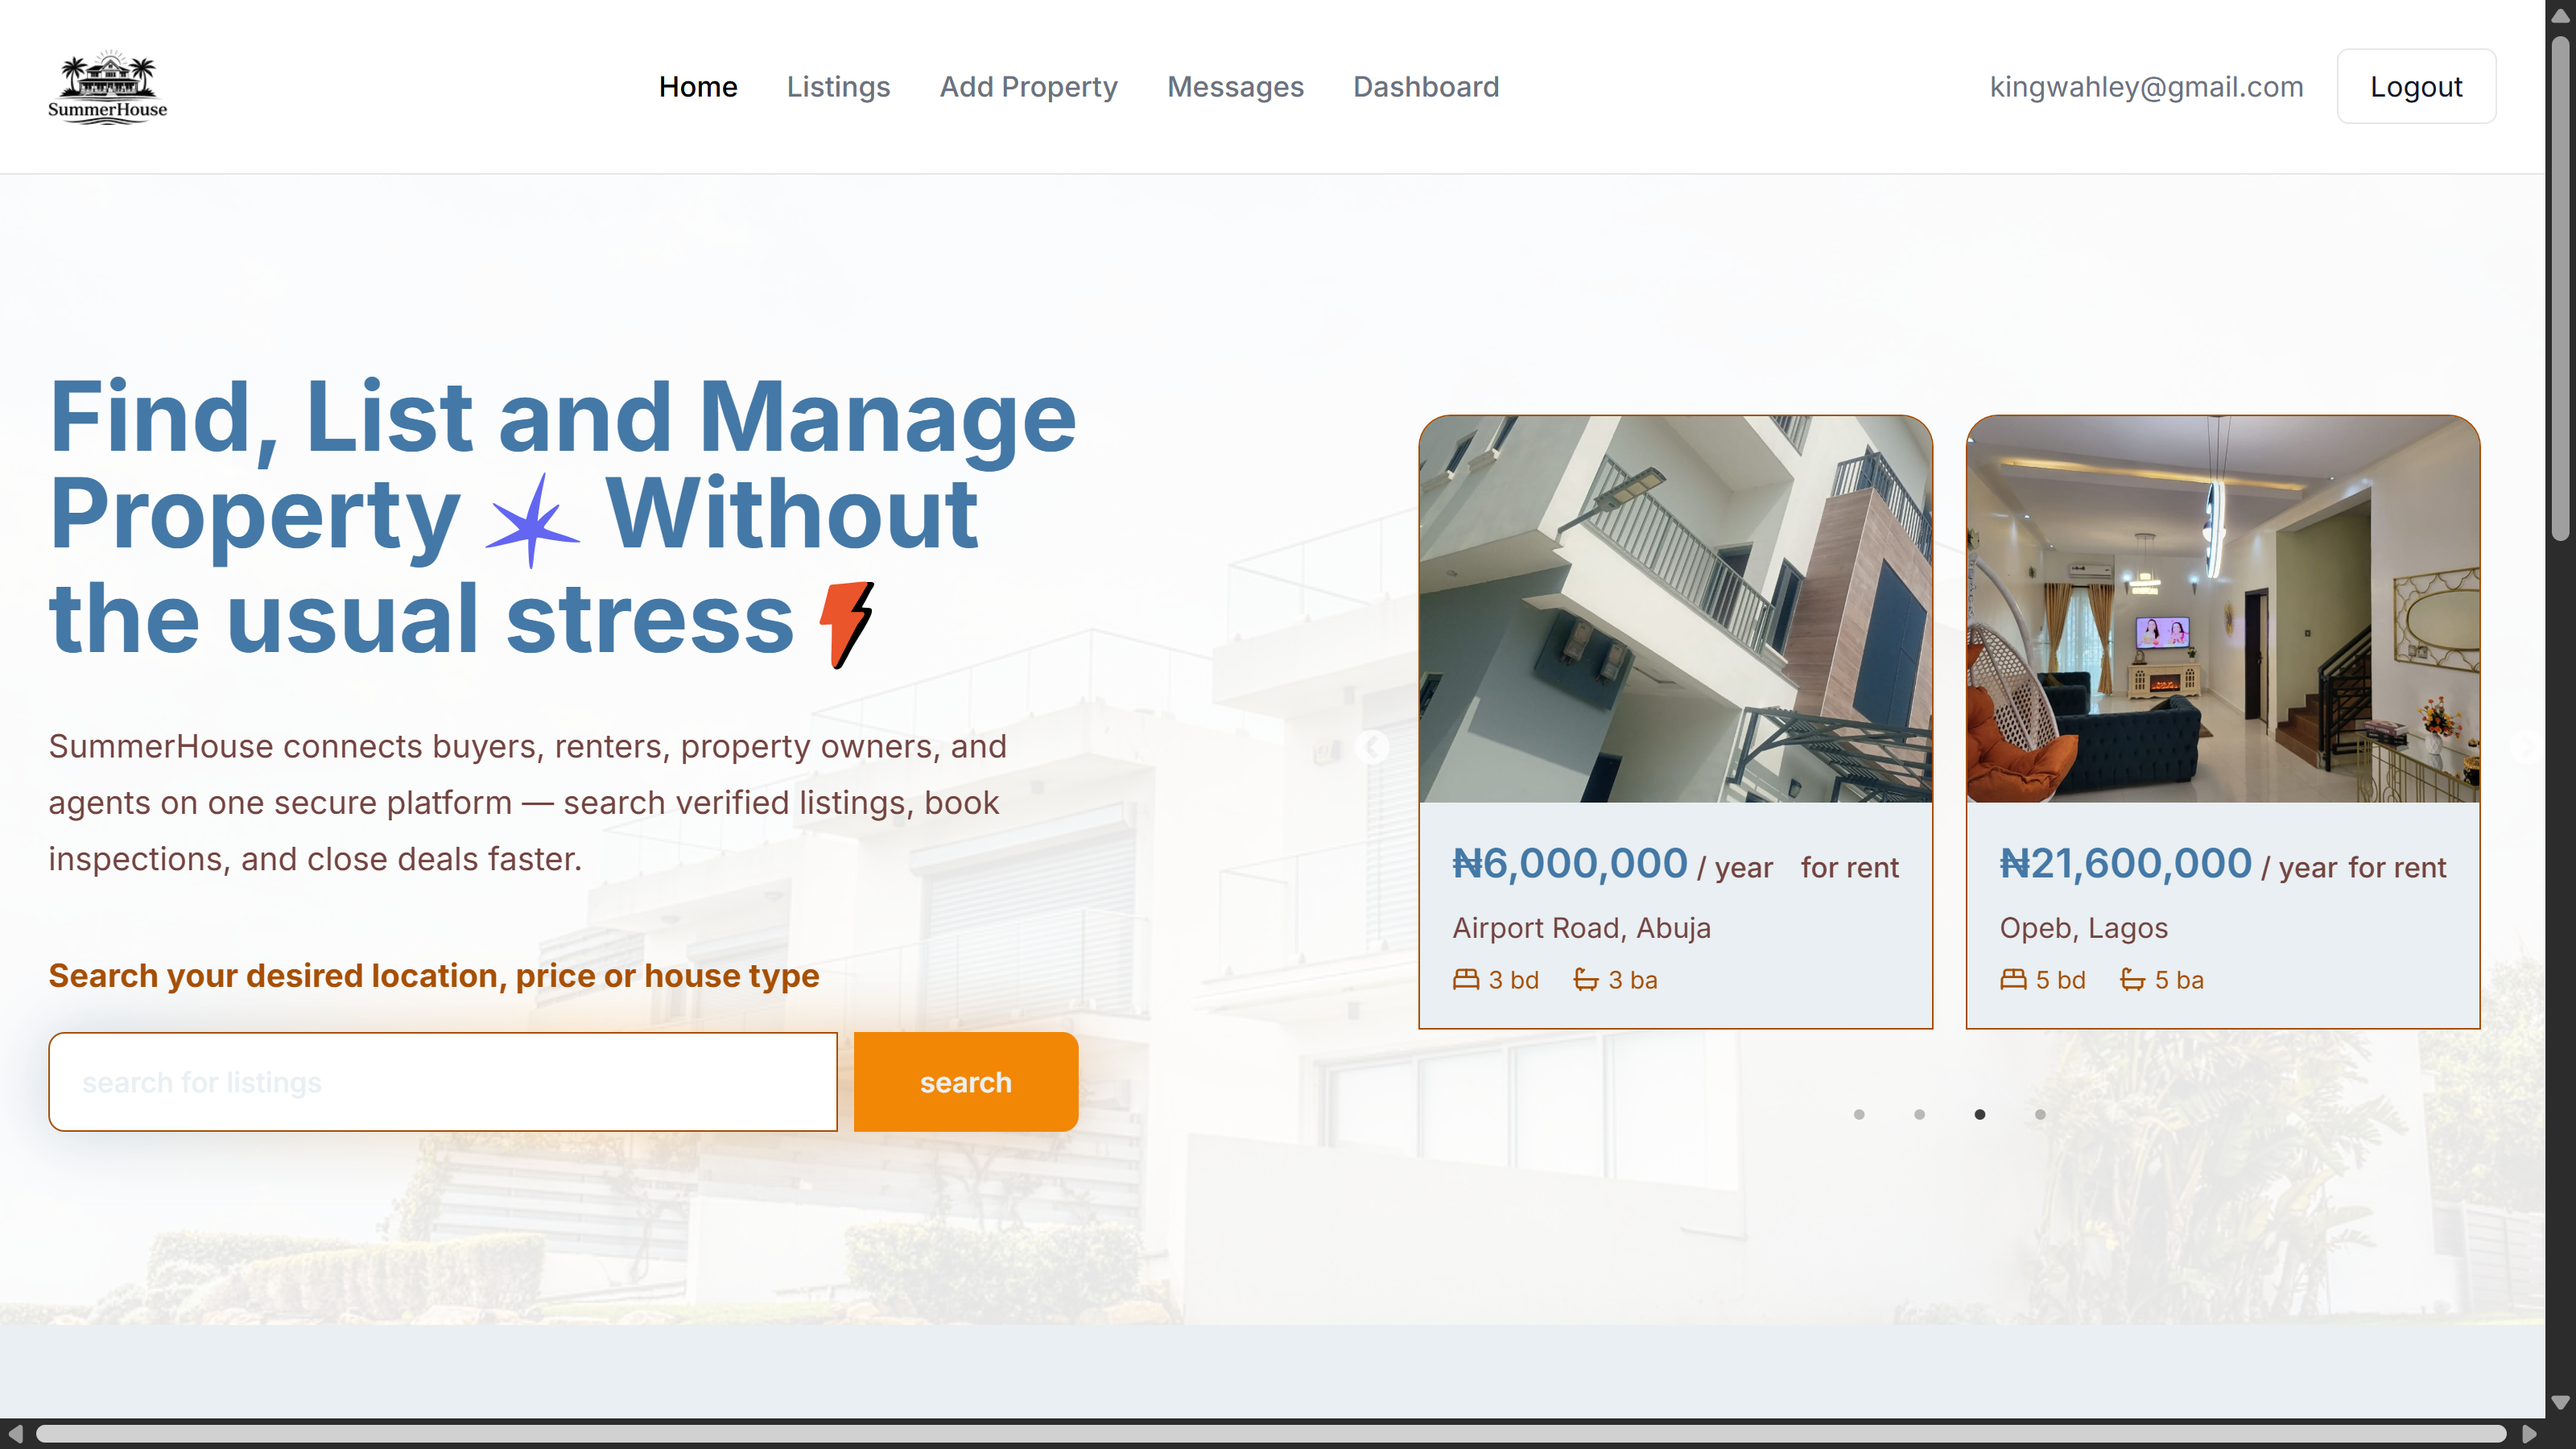
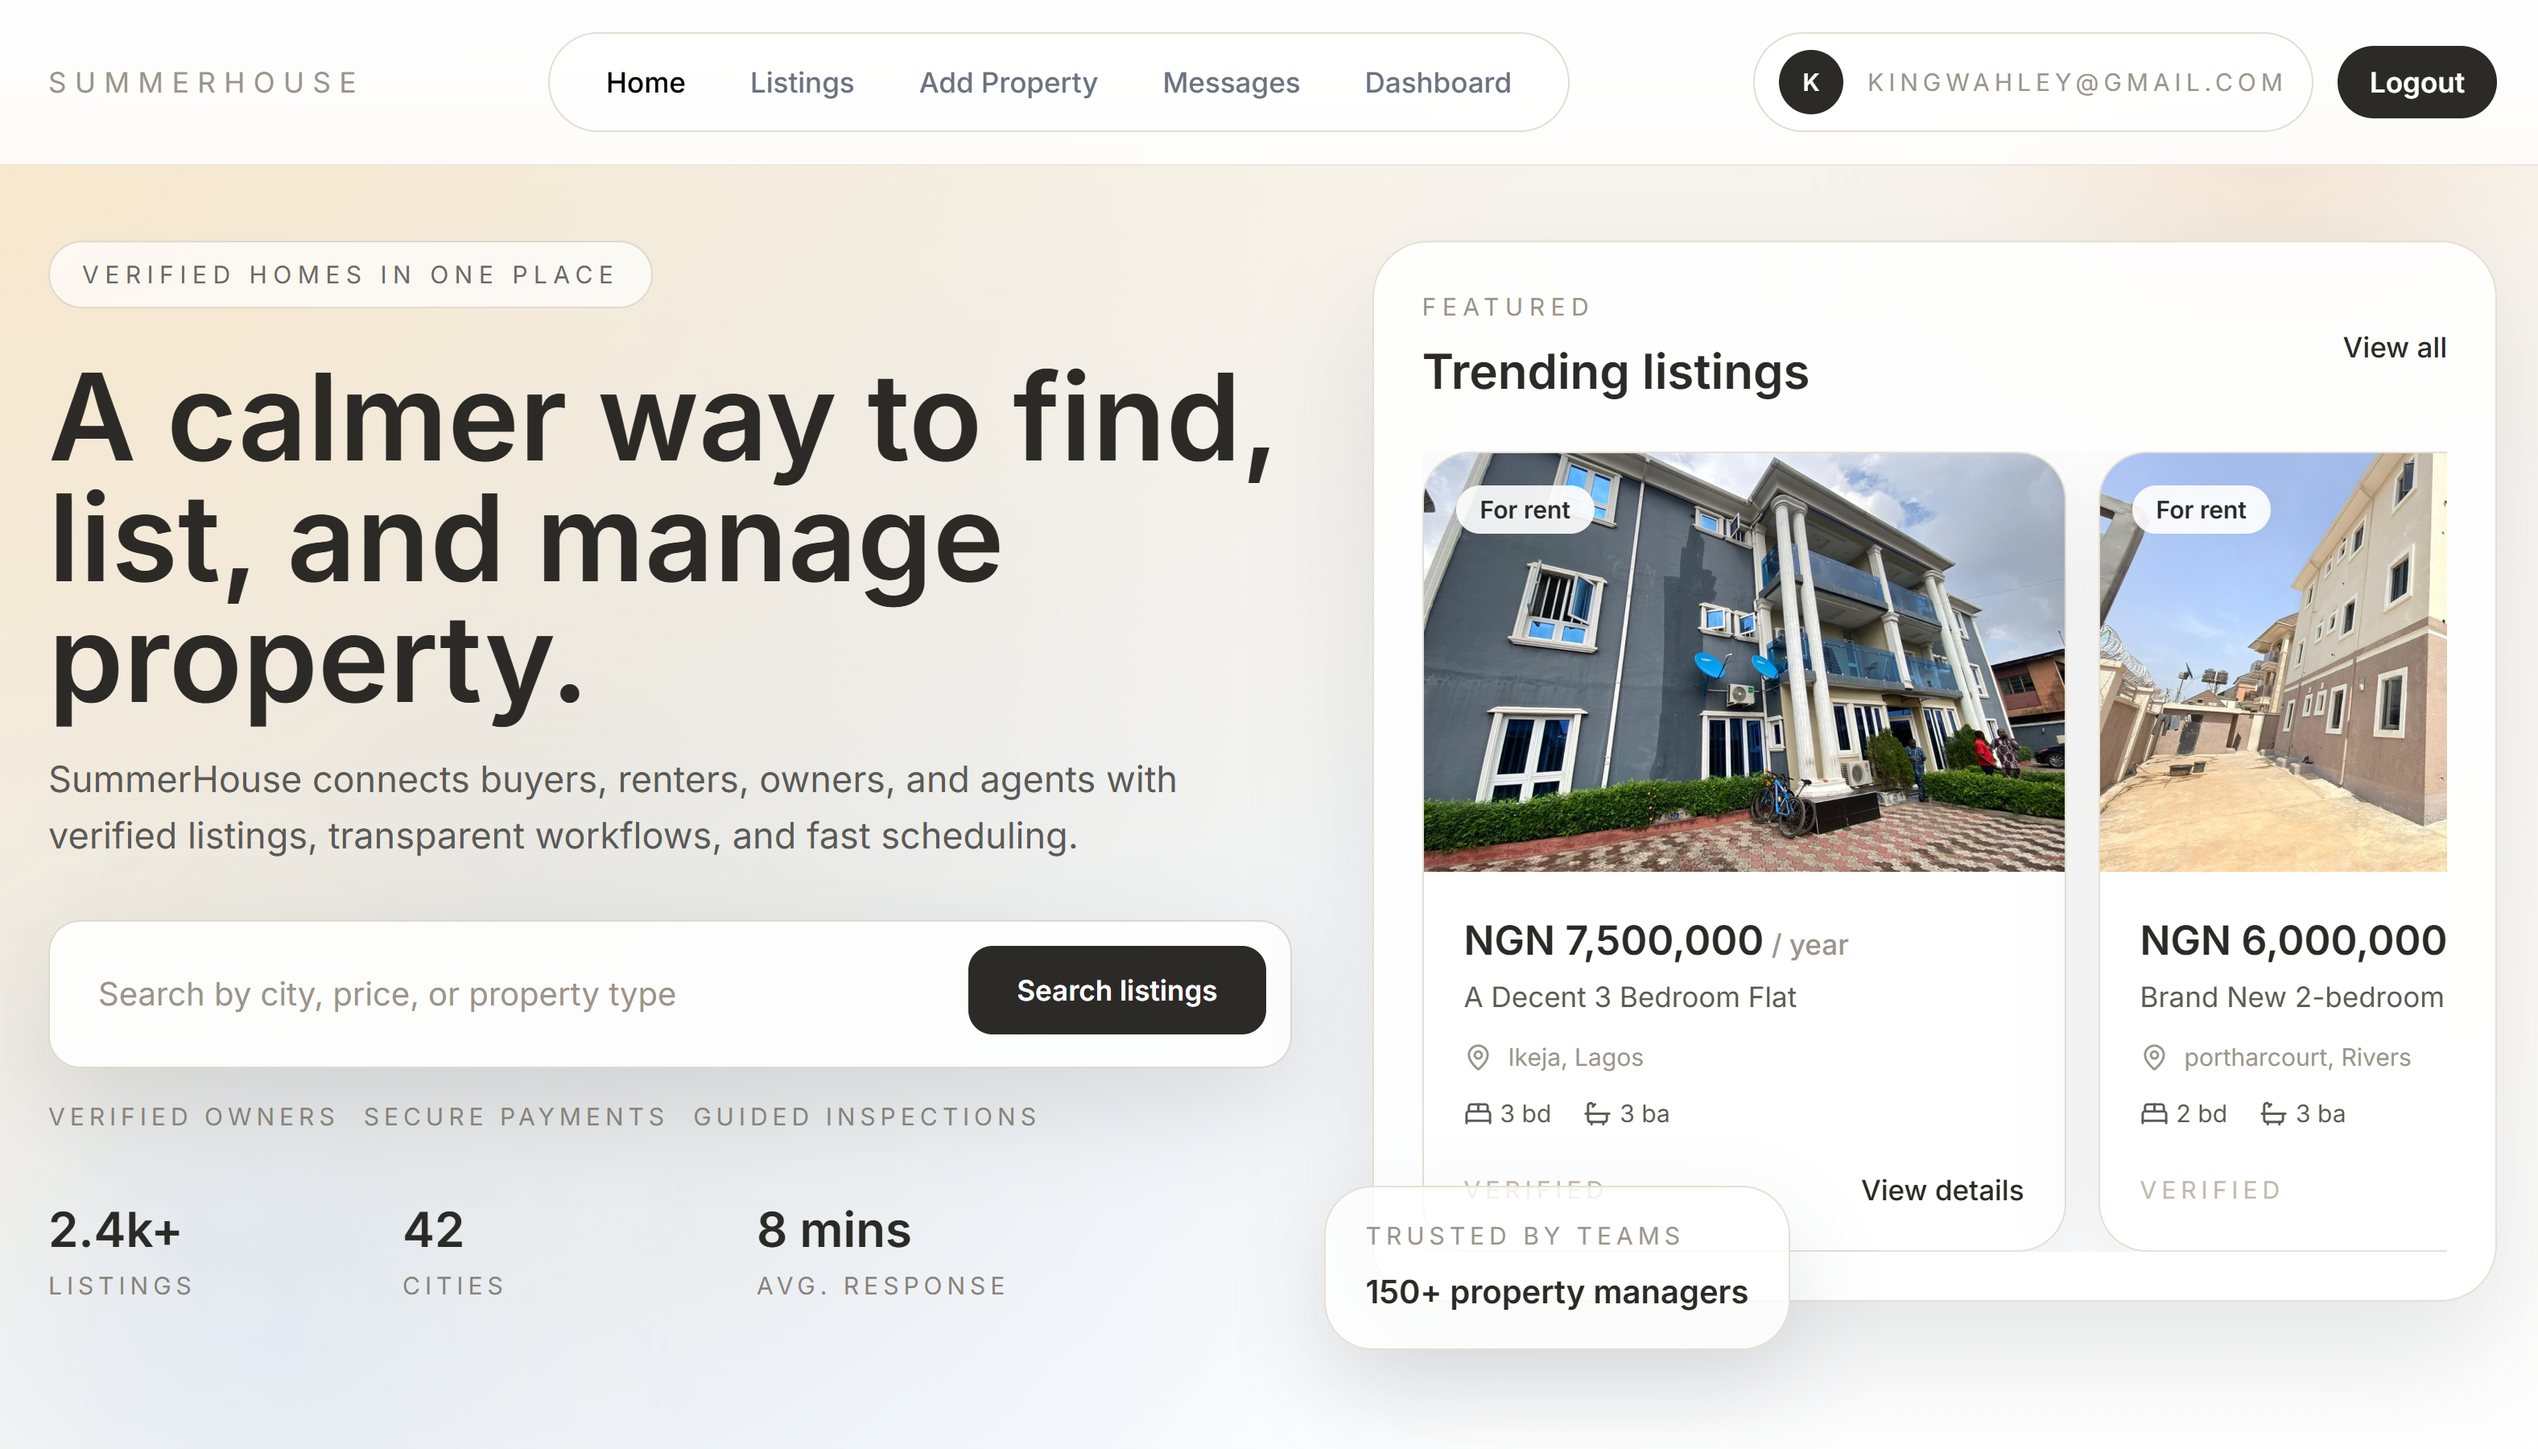
refined design

diff --git a/src/data/data.js b/src/data/data.js
@@ -15,7 +15,7 @@ export const data = [
     preview: "https://foodoo-ochre.vercel.app/",
   },
   {
-    name: "SummerHuse",
+    name: "Summer House",
     description:
       "A real estate webapp where users can find listings that are for sale or for rent.",
     thumbnail: summer,
